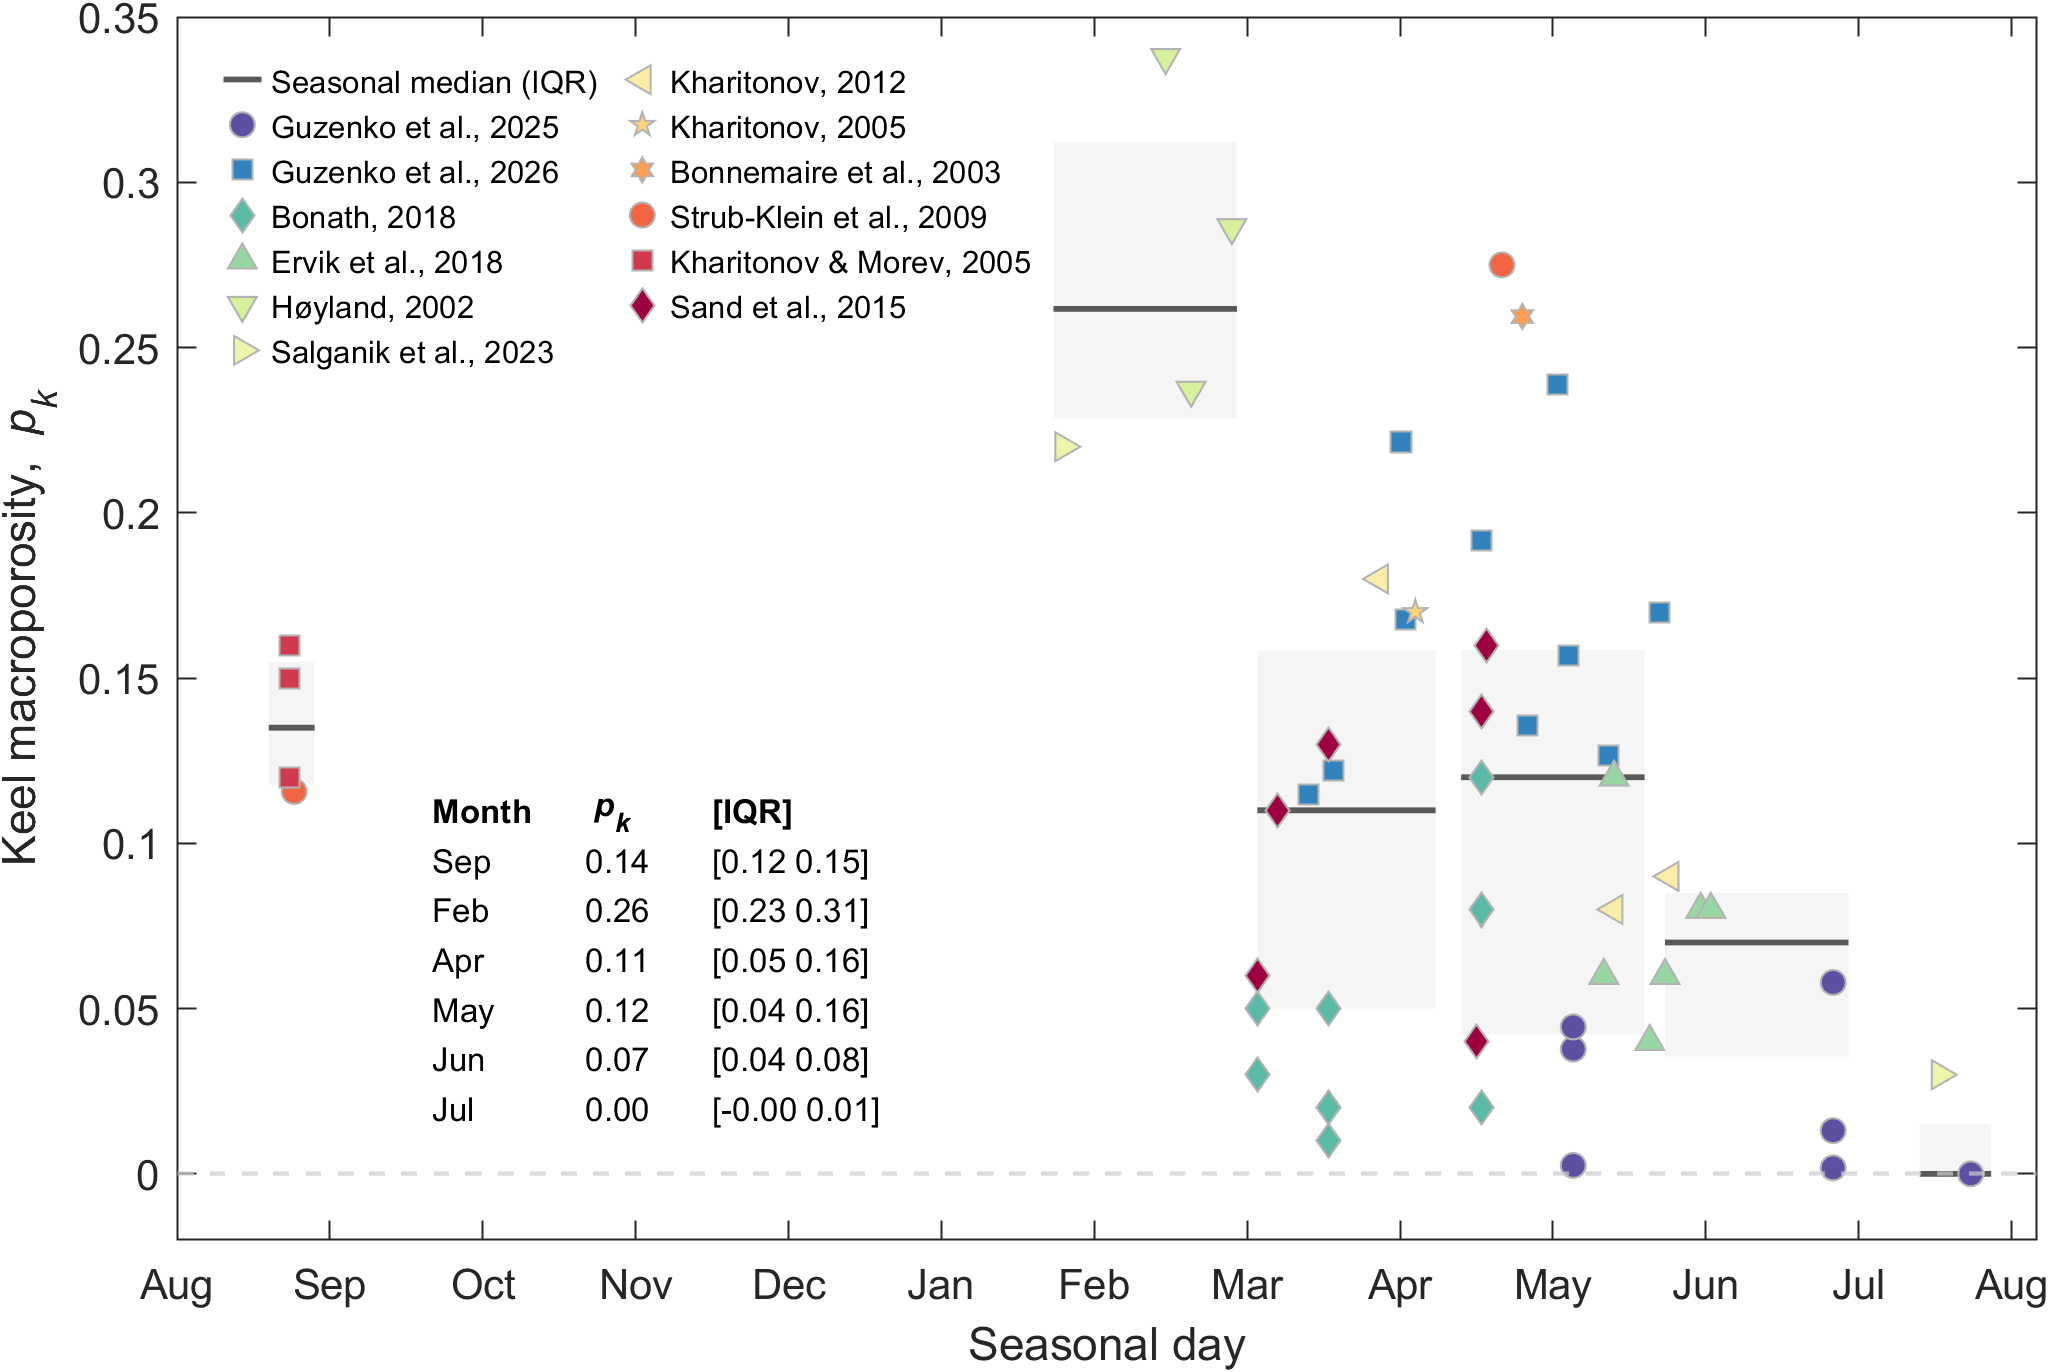
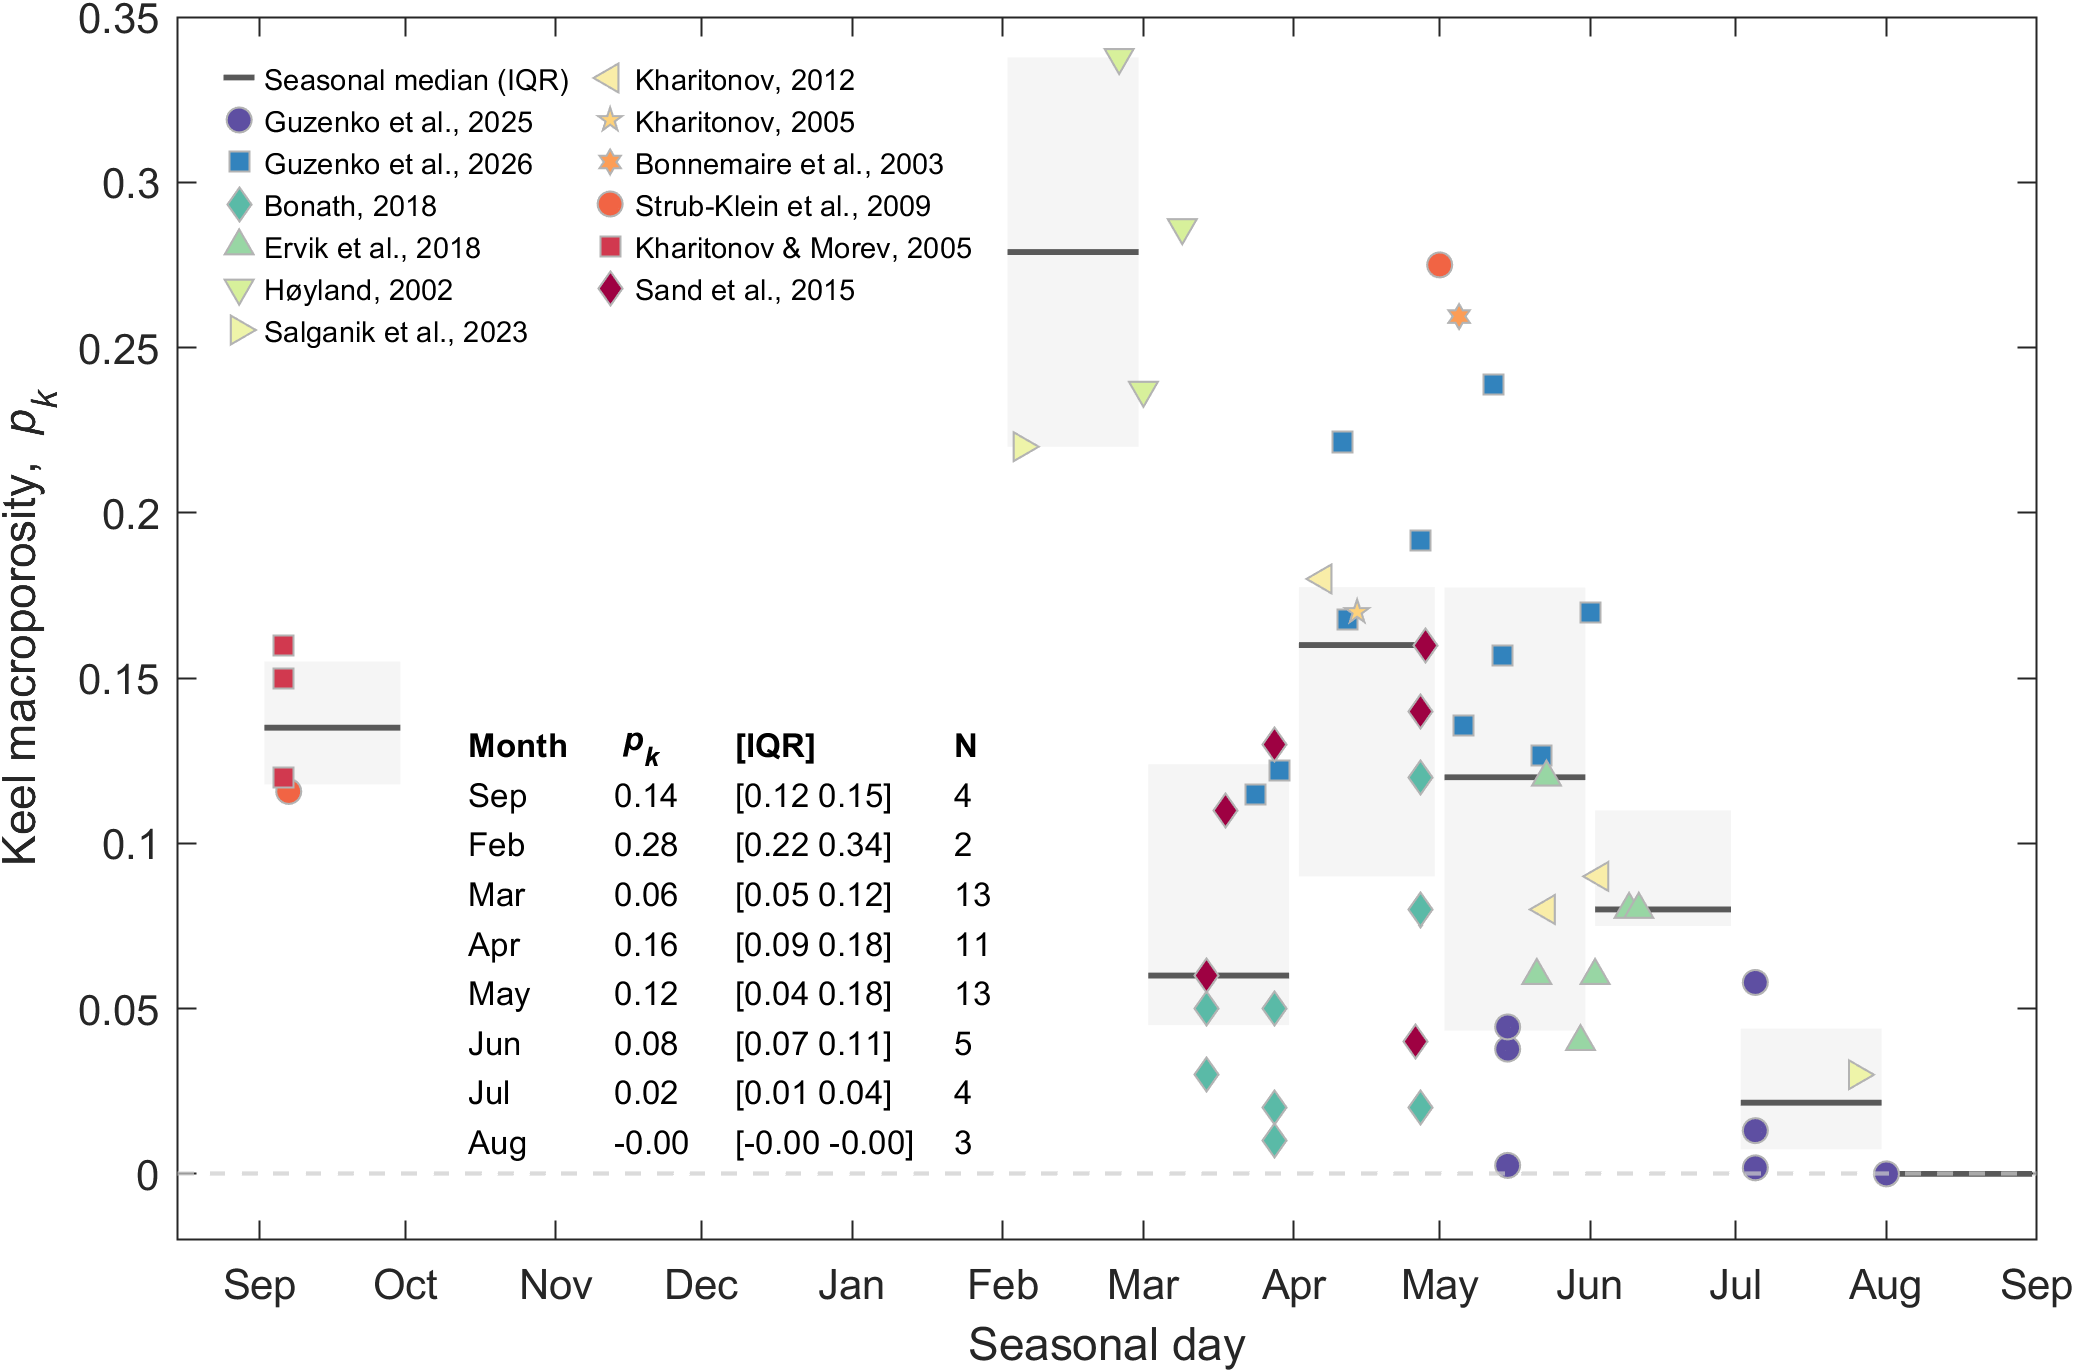
Add files via upload
Fixed bug with time ticks not at the start of a month.
Bins adjusted to calendar month.

diff --git a/Keel_porosity_historical.m b/Keel_porosity_historical.m
@@ -178,28 +178,34 @@ fig = figure; hold on; box on
 yline(0, '--', 'Color', [0.8 0.8 0.8], 'LineWidth', 1, 'HandleVisibility', 'off');
 
 % ── 1. Compute per-bin statistics (single pass; reused for plot + table) ─────
-binEdges = [0 45 170 210 250 290 330 365];
-minN     = 3;
-xPad     = 4;
-binGap   = 2;
-nBins    = numel(binEdges) - 1;
+t0 = datetime(2019,seasonStartMonth,seasonStartDay);
+tBinEdges = [datetime(2019,8,15), ...
+             datetime(2019,9:12,1), ...
+             datetime(2020,1:8,1), ...
+             datetime(2020,9,1)]; 
+binEdges = days(tBinEdges - t0);
+minN  = 2;
+gap   = 1;   % visual gap between monthly boxes, days
+nBins = numel(binEdges) - 1;
 
 binStats = struct('valid', false, 'label', '', 'xc', NaN, ...
-                  'x1', NaN, 'x2', NaN, 'med', NaN, 'q1', NaN, 'q3', NaN);
+                  'x1', NaN, 'x2', NaN, 'med', NaN, ...
+                  'q1', NaN, 'q3', NaN, 'N', 0);
 binStats = repmat(binStats, nBins, 1);
 
 for k = 1:nBins
     inBin = T.xseason >= binEdges(k) & T.xseason < binEdges(k+1);
     if sum(inBin) < minN, continue; end
+    binStats(k).N = sum(inBin);
 
     q = quantile(T.pk(inBin), [0.25 0.75]);
     xc = mean(binEdges(k:k+1));
 
     binStats(k).valid = true;
-    binStats(k).label = datestr(datetime(2019, 8, 15) + days(xc), 'mmm');
-    binStats(k).xc    = xc;
-    binStats(k).x1    = max(min(T.xseason(inBin)) - xPad, binEdges(k)   + binGap);
-    binStats(k).x2    = min(max(T.xseason(inBin)) + xPad, binEdges(k+1) - binGap);
+binStats(k).label = datestr(tBinEdges(k), 'mmm');
+binStats(k).xc    = xc;
+binStats(k).x1    = binEdges(k)   + gap;
+binStats(k).x2    = binEdges(k+1) - gap;
     binStats(k).med   = median(T.pk(inBin), 'omitnan');
     binStats(k).q1    = q(1);
     binStats(k).q3    = q(2);
@@ -243,30 +249,40 @@ labels  = {binStats(valid).label};
 medvals = [binStats(valid).med];
 q1vals  = [binStats(valid).q1];
 q3vals  = [binStats(valid).q3];
+Nvals   = [binStats(valid).N];
 
-x0  = 50;    y0 = 0.11;   dy = 0.015;
-col = [0, 30, 55];  % x offsets: Month | Median | IQR
+x0  = 60;    y0 = 0.13;   dy = 0.015;
+col = [0, 30, 55, 100];  % Month | p_k | IQR | N
 
 text(x0+col(1), y0, 'Month', 'FontWeight', 'bold', 'FontSize', 8);
-text(x0+col(2), y0, '{\it p_k}',   'FontWeight', 'bold', 'FontSize', 8);
+text(x0+col(2), y0, '{\it p_k}', 'FontWeight', 'bold', 'FontSize', 8);
 text(x0+col(3), y0, '[IQR]', 'FontWeight', 'bold', 'FontSize', 8);
+text(x0+col(4), y0, 'N', 'FontWeight', 'bold', 'FontSize', 8);
 
 for i = 1:numel(labels)
     y = y0 - i*dy;
-    text(x0+col(1), y, labels{i},                                    'FontSize', 8);
-    text(x0+col(2), y, sprintf('%.2f', medvals(i)),                  'FontSize', 8);
-    text(x0+col(3), y, sprintf('[%.2f %.2f]', q1vals(i), q3vals(i)), 'FontSize', 8);
+text(x0+col(1), y, labels{i}, 'FontSize', 8);
+text(x0+col(2), y, sprintf('%.2f', medvals(i)), 'FontSize', 8);
+text(x0+col(3), y, sprintf('[%.2f %.2f]', q1vals(i), q3vals(i)), 'FontSize', 8);
+text(x0+col(4), y, sprintf('%d', Nvals(i)), 'FontSize', 8);
 end
 
 % ── 5. Axes formatting & export ───────────────────────────────────────────────
-xticks(0:30:360);
-xticklabels({'Aug','Sep','Oct','Nov','Dec','Jan','Feb','Mar','Apr','May','Jun','Jul','Aug'});
-xlim([0 365]);  ylim([-0.02 0.35]);
+% axis
+tTicks = [datetime(2019,9:12,1), ...
+          datetime(2020,1:9,1)];   % includes 1 Sep at the end
+
+xTicks = days(tTicks - t0);
+
+xticks(xTicks)
+xticklabels({'Sep','Oct','Nov','Dec','Jan','Feb','Mar','Apr','May','Jun','Jul','Aug','Sep'})
+xlim([0 days(datetime(2020,9,1)-t0)])
+ylim([-0.02 0.35])
 
 xlabel('Seasonal day');
 ylabel('Keel macroporosity, {\it p_k}')
-leg = legend('Location', 'northwest', 'NumColumns', 2, 'FontSize', 7.5, 'Box', 'off');
-leg.ItemTokenSize = [30*0.3, 18*0.2];
+leg = legend('Location', 'northwest', 'NumColumns', 2, 'FontSize', 7.0, 'Box', 'off');
+leg.ItemTokenSize = [30*0.25, 18*0.2];
 
 fig.Units    = 'inches';
 fig.Position = [3 3 8 5];
